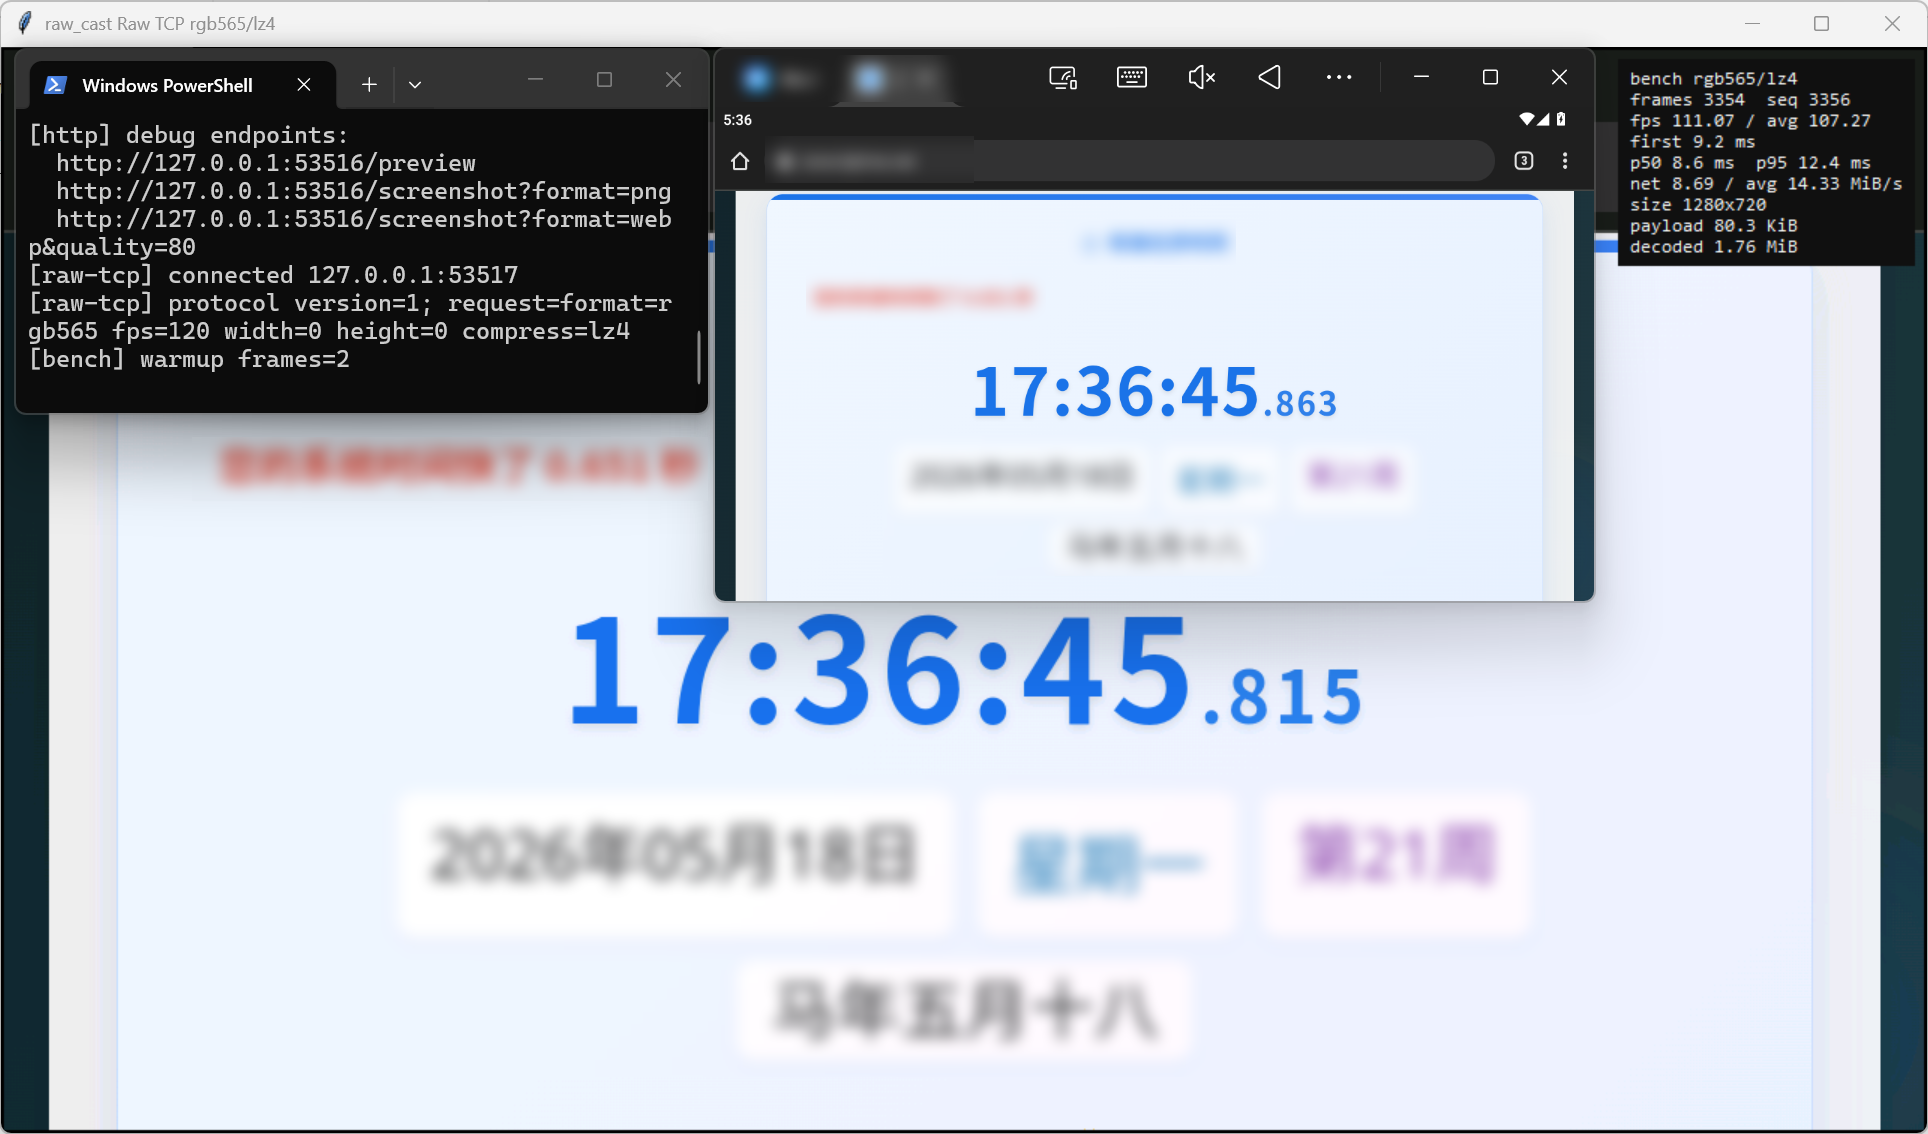
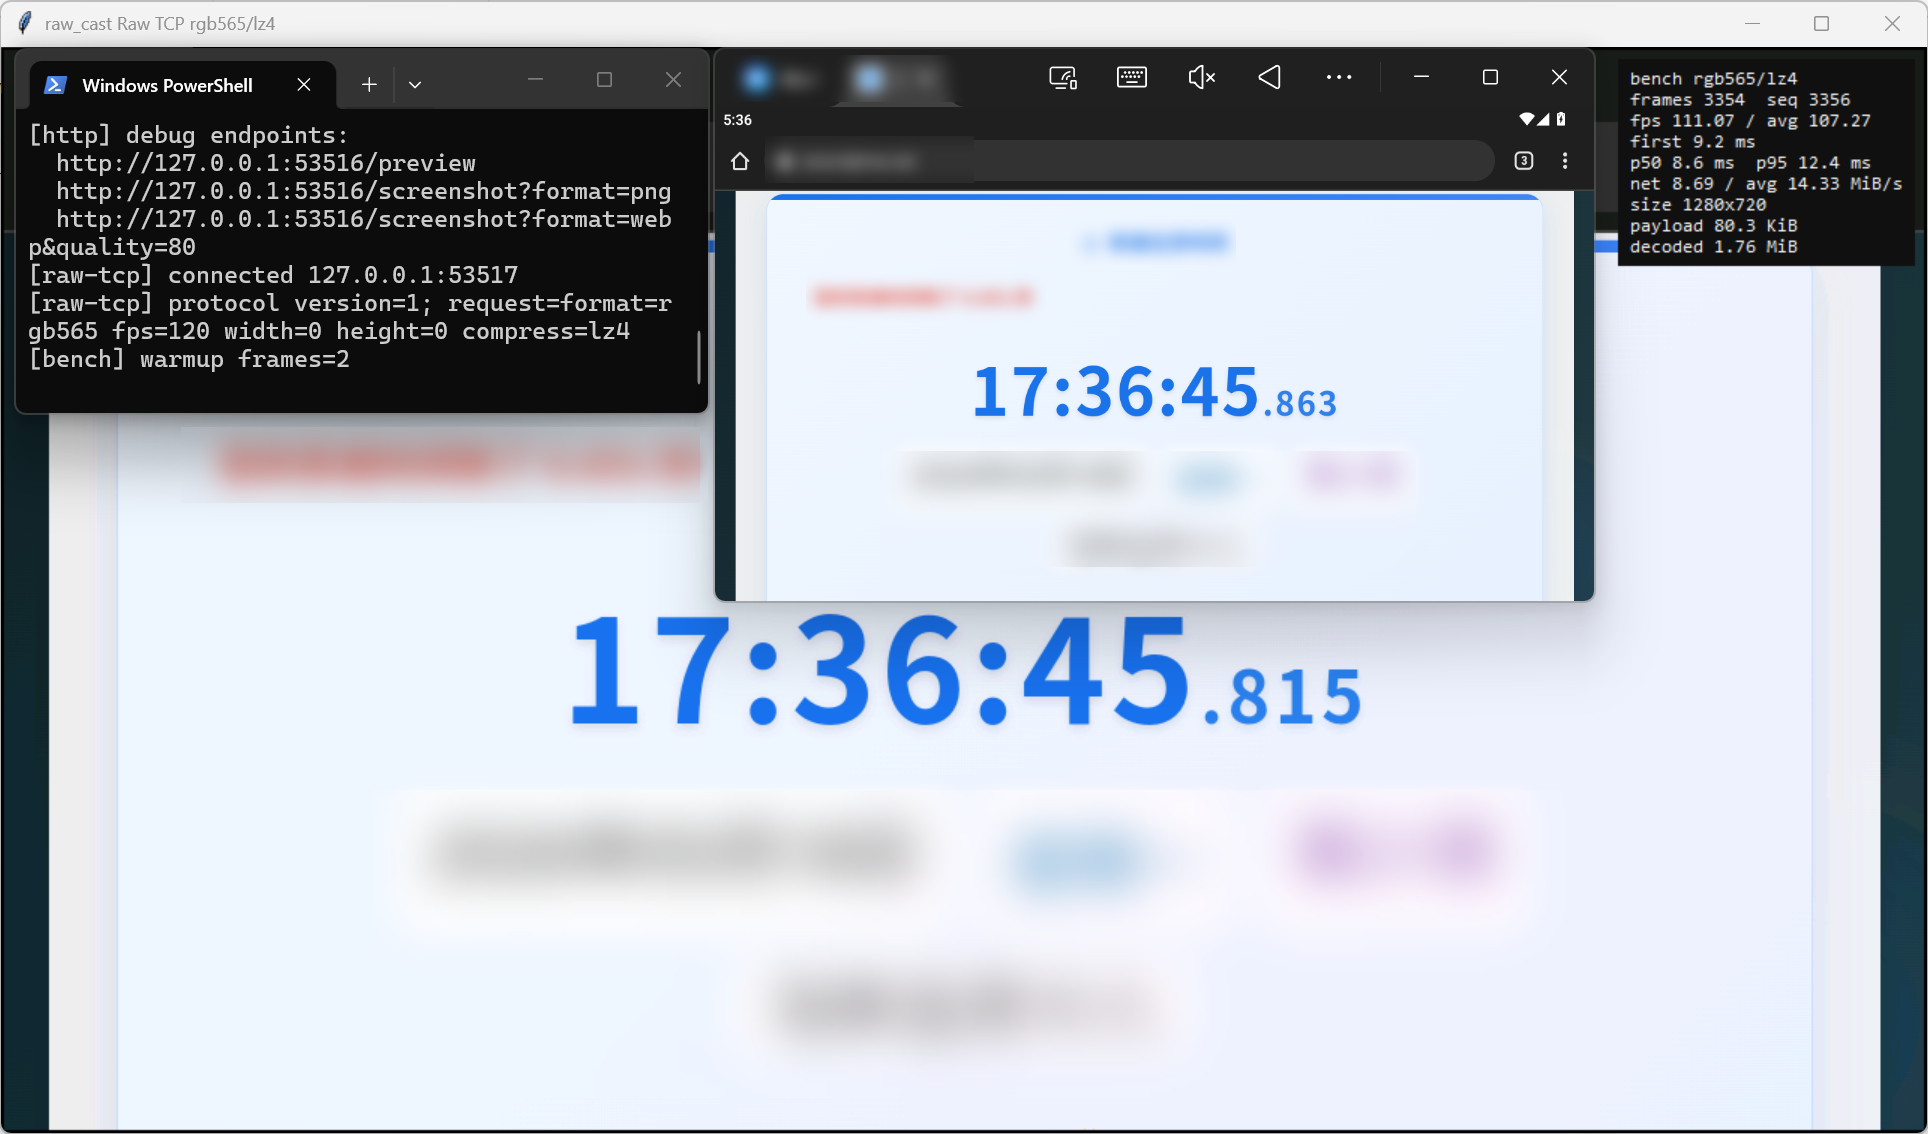
Convert performance benchmarks to HTML tables

diff --git a/docs/en/README.md b/docs/en/README.md
@@ -14,23 +14,33 @@ Target compatibility: Android 6.0 through Android 14, SDK 23 through 34. Android
 
 ## Performance Benchmark
 
-![Python example benchmark](../images/py_bench.png)
+<table>
+  <tr>
+    <td width="50%" align="center" valign="top">
+      <strong>Example Code Test</strong><br>
+      <img src="../images/py_bench.png" alt="Python example benchmark" width="430">
+      <br>
+      <sub><code>raw_tcp_rgb565_lz4</code> example code test result.</sub>
+    </td>
+    <td width="50%" align="center" valign="top">
+      <strong>Pixel Diff</strong><br>
+      <img src="../images/diff_en.jpg" alt="MuMuRender and raw_cast/raw_tcp/rgb565/lz4 screenshot diff" width="430"><br>
+      <sub>In the same scene, the two outputs were visually indistinguishable.</sub>
+    </td>
+  </tr>
+</table>
 
-The following reference run used MuMu emulator 12, Android 12, 1280x720, decoding `rgb565` frames into Mat for 200 samples with 0 failures. Each unencoded `rgb565` payload was about 1.76 MB, and the converted Mat was about 2.64 MB. Treat these numbers as transport and compression comparisons within that environment, not universal device results.
+The following reference run used MuMu emulator 12, Android 12, 1280x720, decoding `rgb565` frames into Mat.
 
-| Combo | First frame | p50 | p95 | Effective fps | Observation |
-| --- | ---: | ---: | ---: | ---: | --- |
-| stdout + `rgb565` | 101 ms | 81 ms | 114 ms | 11.93 | Simplest startup path, but uncompressed large frames can be limited by stdout and ADB pipe throughput |
-| stdout + `rgb565` + LZ4 | 12 ms | 13 ms | 21 ms | 68.52 | Much higher throughput, useful for no-port automation and fallback paths |
-| Raw TCP + `rgb565` | 50 ms | 44 ms | 59 ms | 22.60 | More stable than stdout when uncompressed, with much lower first-frame latency |
-| Raw TCP + `rgb565` + LZ4 | 18 ms | 12 ms | 19 ms | 73.52 | Low and stable latency, the preferred combo for real-time Mat pipelines in this environment |
-| MuMu render baseline | 7 ms | 7 ms | 8 ms | 133.30 | Emulator-local render baseline; excludes raw_cast capture and ADB transfer cost |
-
-In the same scene, MuMuRender and `raw_cast/raw_tcp/rgb565/lz4` were visually indistinguishable:
-
-![MuMuRender and raw_cast/raw_tcp/rgb565/lz4 screenshot diff](../images/diff_en.jpg)
-
-Takeaway: `rgb565` + LZ4 greatly reduces transfer pressure in this emulator test. Raw TCP + LZ4 is the better default for long-running real-time streams; stdout + LZ4 remains useful for single-channel automation, one-shot capture, or port-unavailable fallback. For more performance recommendations, see [PERFORMANCE.md](PERFORMANCE.md).
+<table>
+  <tr><th>Combo</th><th>First frame</th><th>p50</th><th>p95</th><th>Effective fps</th><th>Summary</th></tr>
+  <tr><td>stdout + <code>rgb565</code></td><td align="right">101 ms</td><td align="right">81 ms</td><td align="right">114 ms</td><td align="right">11.93</td><td>Large uncompressed frames are limited by stdout/ADB throughput</td></tr>
+  <tr><td>stdout + <code>rgb565</code> + LZ4</td><td align="right">12 ms</td><td align="right">13 ms</td><td align="right">21 ms</td><td align="right">68.52</td><td>LZ4 improves throughput and suits no-port paths</td></tr>
+  <tr><td>Raw TCP + <code>rgb565</code></td><td align="right">50 ms</td><td align="right">44 ms</td><td align="right">59 ms</td><td align="right">22.60</td><td>More stable than stdout, but still bandwidth-heavy</td></tr>
+  <tr><td>Raw TCP + <code>rgb565</code> + LZ4</td><td align="right">18 ms</td><td align="right">12 ms</td><td align="right">19 ms</td><td align="right">73.52</td><td>Low and stable latency; preferred for real-time streams</td></tr>
+  <tr><td>MuMu render baseline</td><td align="right">7 ms</td><td align="right">7 ms</td><td align="right">8 ms</td><td align="right">133.30</td><td>Local render baseline; excludes capture and transfer cost</td></tr>
+  <tr><td colspan="6"><code>rgb565</code> + LZ4 greatly reduces transfer pressure in this emulator test. Raw TCP + LZ4 is the better default for long-running real-time streams; stdout + LZ4 remains useful for single-channel automation, one-shot capture, or port-unavailable fallback. For more performance recommendations, see <a href="PERFORMANCE.md">PERFORMANCE.md</a>.</td></tr>
+</table>
 
 ## Quick Start
 

diff --git a/README.md b/README.md
@@ -27,23 +27,33 @@
 
 ## 性能基准
 
-![Python 示例性能测试](docs/images/py_bench.png)
+<table>
+  <tr>
+    <td width="50%" align="center" valign="top">
+      <strong>示例代码测试</strong><br>
+      <img src="docs/images/py_bench.png" alt="Python 示例性能测试" width="430">
+      <br>
+      <sub><code>raw_tcp_rgb565_lz4</code> 示例代码测试结果。</sub>
+    </td>
+    <td width="50%" align="center" valign="top">
+      <strong>像素对比</strong><br>
+      <img src="docs/images/diff_zh.png" alt="MuMuRender 与 raw_cast/raw_tcp/rgb565/lz4 截图差异对比" width="430"><br>
+      <sub>同场景下，两者的可见像素基本无差异。</sub>
+    </td>
+  </tr>
+</table>
 
-以下数据来自 MuMu 模拟器 12，Android 12，1280x720，测试 `rgb565` 解码并转换为 Mat，连续采样 200 帧且失败数为 0。单帧 `rgb565` 未编码 payload 约 1.76 MB，转换为 Mat 后约 2.64 MB。该结果适合比较同环境下的传输和压缩策略，不代表所有真机表现。
+以下数据来自 MuMu 模拟器 12，Android 12，1280x720，测试 `rgb565` 解码并转换为 Mat。
 
-| 组合 | 首帧 | p50 | p95 | 有效 fps | 观察 |
-| --- | ---: | ---: | ---: | ---: | --- |
-| stdout + `rgb565` | 101 ms | 81 ms | 114 ms | 11.93 | 端口最简单，但未压缩大帧容易被 stdout/ADB 管道拖慢 |
-| stdout + `rgb565` + LZ4 | 12 ms | 13 ms | 21 ms | 68.52 | 吞吐提升明显，适合无端口自动化或兜底场景 |
-| Raw TCP + `rgb565` | 50 ms | 44 ms | 59 ms | 22.60 | 未压缩时比 stdout 更稳，首帧也更低 |
-| Raw TCP + `rgb565` + LZ4 | 18 ms | 12 ms | 19 ms | 73.52 | 延迟低且稳定，是该环境下实时 Mat 管线的优先组合 |
-| MuMu render baseline | 7 ms | 7 ms | 8 ms | 133.30 | 模拟器本地渲染基线，不包含 raw_cast 截图和 ADB 传输成本 |
-
-同场景下，MuMuRender 与 `raw_cast/raw_tcp/rgb565/lz4` 的截图对比显示可见像素基本无差异：
-
-![MuMuRender 与 raw_cast/raw_tcp/rgb565/lz4 截图差异对比](docs/images/diff_zh.png)
-
-结论：`rgb565` + LZ4 在该模拟器环境中显著降低传输压力；Raw TCP + LZ4 是长时间实时流的优先组合，stdout + LZ4 适合单通道自动化、单帧或端口不可用时的兜底。更多性能建议见 [docs/zh/PERFORMANCE.md](docs/zh/PERFORMANCE.md)。
+<table>
+  <tr><th>组合</th><th>首帧</th><th>p50</th><th>p95</th><th>有效 fps</th><th>摘要</th></tr>
+  <tr><td>stdout + <code>rgb565</code></td><td align="right">101 ms</td><td align="right">81 ms</td><td align="right">114 ms</td><td align="right">11.93</td><td>未压缩大帧受 stdout/ADB 吞吐限制</td></tr>
+  <tr><td>stdout + <code>rgb565</code> + LZ4</td><td align="right">12 ms</td><td align="right">13 ms</td><td align="right">21 ms</td><td align="right">68.52</td><td>压缩后吞吐明显改善，适合无端口场景</td></tr>
+  <tr><td>Raw TCP + <code>rgb565</code></td><td align="right">50 ms</td><td align="right">44 ms</td><td align="right">59 ms</td><td align="right">22.60</td><td>比 stdout 更稳，但仍占用较高带宽</td></tr>
+  <tr><td>Raw TCP + <code>rgb565</code> + LZ4</td><td align="right">18 ms</td><td align="right">12 ms</td><td align="right">19 ms</td><td align="right">73.52</td><td>低延迟且稳定，实时流优先</td></tr>
+  <tr><td>MuMu render baseline</td><td align="right">7 ms</td><td align="right">7 ms</td><td align="right">8 ms</td><td align="right">133.30</td><td>本地渲染基线，不含截图与传输成本</td></tr>
+  <tr><td colspan="6"><code>rgb565</code> + LZ4 在该模拟器环境中显著降低传输压力；Raw TCP + LZ4 是长时间实时流的优先组合，stdout + LZ4 适合单通道自动化、单帧或端口不可用时的兜底。更多性能建议见 <a href="docs/zh/PERFORMANCE.md">docs/zh/PERFORMANCE.md</a>。</td></tr>
+</table>
 
 ## 快速开始
 
